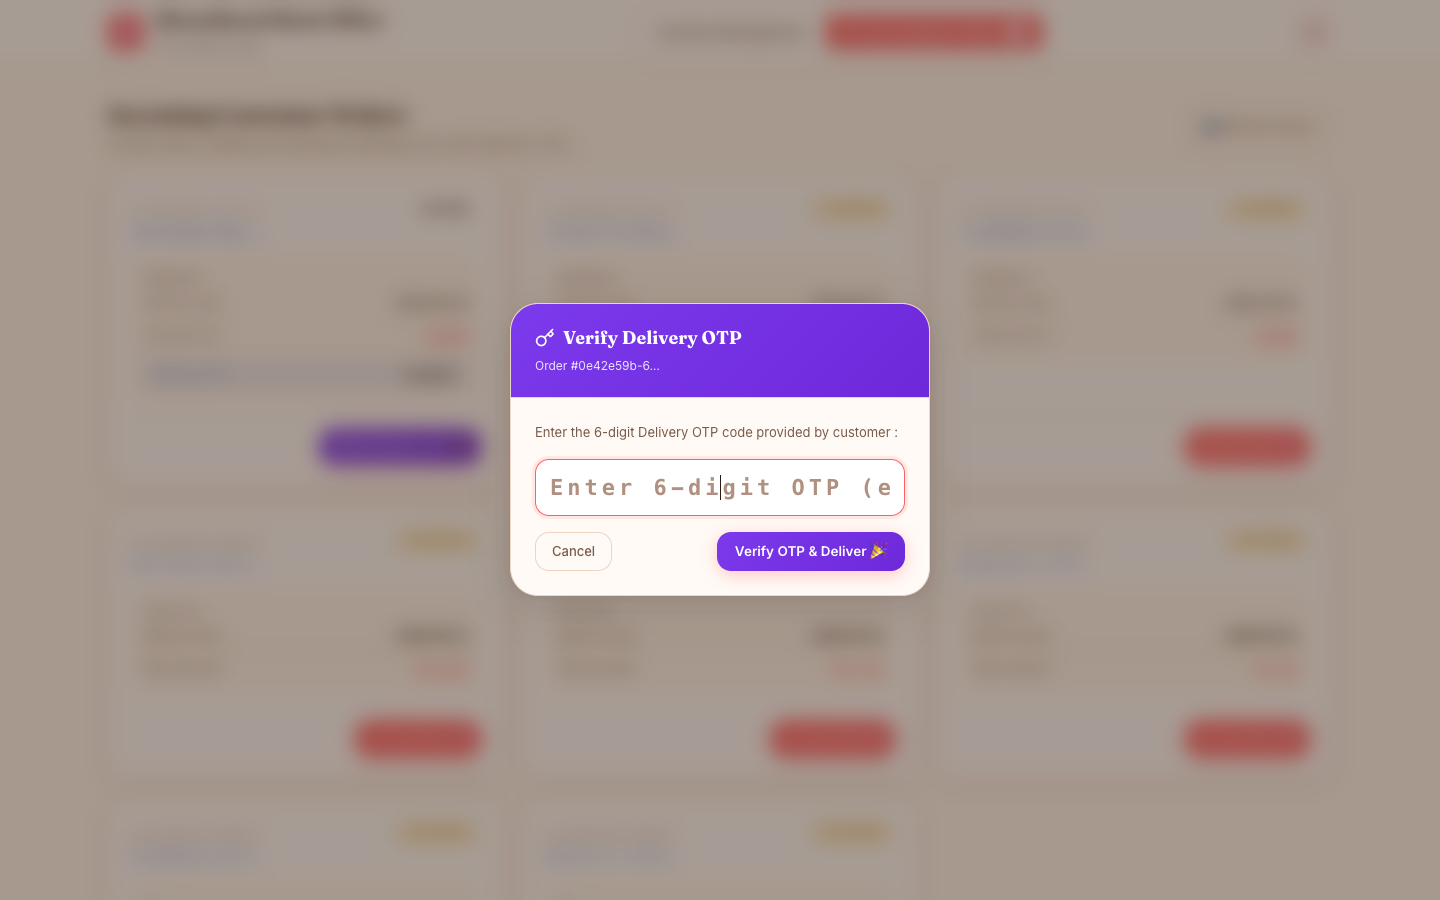
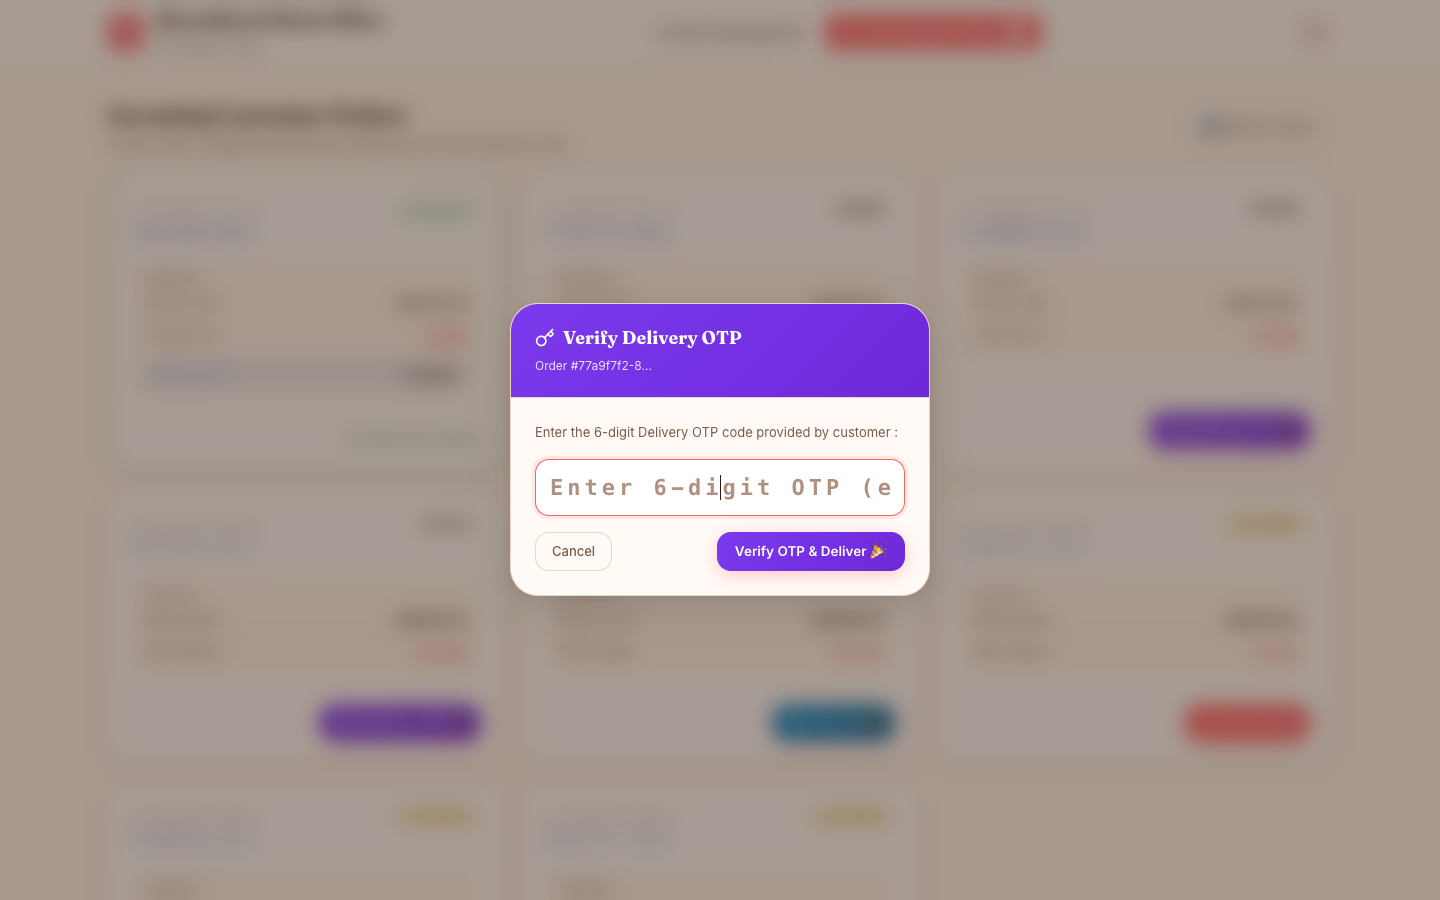
Implement full Order Status Lifecycle, Florist Live Orders panel, and OTP Delivery Verification workflow

diff --git a/frontend/src/CustomerApp.jsx b/frontend/src/CustomerApp.jsx
@@ -9,21 +9,21 @@ import {
 const PETALS = ['🌸','🌺','🌼','🌻','🌹','💐','🌷','🏵','🌸','🌼'];
 
 const FLOWER_IMAGES = {
-  'Rose':           'https://images.unsplash.com/photo-1518709268805-4e9042af9f23?auto=format&fit=crop&w=600&q=80',
-  'Lily':           'https://images.unsplash.com/photo-1588695886940-d9819280d9ee?auto=format&fit=crop&w=600&q=80',
-  'Orchid':         'https://images.unsplash.com/photo-1525310072745-f49212b5ac6d?auto=format&fit=crop&w=600&q=80',
-  'Carnation':      'https://images.unsplash.com/photo-1554631221-f9603e6808be?auto=format&fit=crop&w=600&q=80',
+  'Rose':           '/images/flower_rose.png',
+  'Lily':           '/images/flower_lily.png',
+  'Orchid':         '/images/flower_orchid.png',
+  'Carnation':      '/images/flower_carnation.png',
   'Gerbera':        'https://images.unsplash.com/photo-1508610048659-a06b669e3321?auto=format&fit=crop&w=600&q=80',
   'Tulip':          'https://images.unsplash.com/photo-1520763185298-1b434c919102?auto=format&fit=crop&w=600&q=80',
   'Chrysanthemum':  'https://images.unsplash.com/photo-1568605117036-5fe5e7bab0b7?auto=format&fit=crop&w=600&q=80',
-  'Sunflower':      'https://images.unsplash.com/photo-1597848212624-a19eb35e2651?auto=format&fit=crop&w=600&q=80',
+  'Sunflower':      '/images/flower_sunflower.png',
   'Anthurium':      'https://images.unsplash.com/photo-1602615576820-ea14b9e77d28?auto=format&fit=crop&w=600&q=80',
   'Gladiolus':      'https://images.unsplash.com/photo-1589217157232-4a29e20b6846?auto=format&fit=crop&w=600&q=80',
   'Alstroemeria':   'https://images.unsplash.com/photo-1582794543139-8ac9cb0f7b11?auto=format&fit=crop&w=600&q=80',
   'Iris':           'https://images.unsplash.com/photo-1565193566173-7a0ee3dbe261?auto=format&fit=crop&w=600&q=80',
   'Lisianthus':     'https://images.unsplash.com/photo-1533616688419-b7a585564566?auto=format&fit=crop&w=600&q=80',
   'Ranunculus':     'https://images.unsplash.com/photo-1566835154388-b2a608d249f1?auto=format&fit=crop&w=600&q=80',
-  'Peony':          'https://images.unsplash.com/photo-1561181286-d3fee7d55364?auto=format&fit=crop&w=600&q=80',
+  'Peony':          '/images/flower_peony.png',
   'Bird of Paradise': 'https://images.unsplash.com/photo-1508610048659-a06b669e3321?auto=format&fit=crop&w=600&q=80',
   'Freesia':        'https://images.unsplash.com/photo-1519378304606-27b43f5c678a?auto=format&fit=crop&w=600&q=80',
   'Stock Flower':   'https://images.unsplash.com/photo-1526047932273-341f2a7631f9?auto=format&fit=crop&w=600&q=80',
